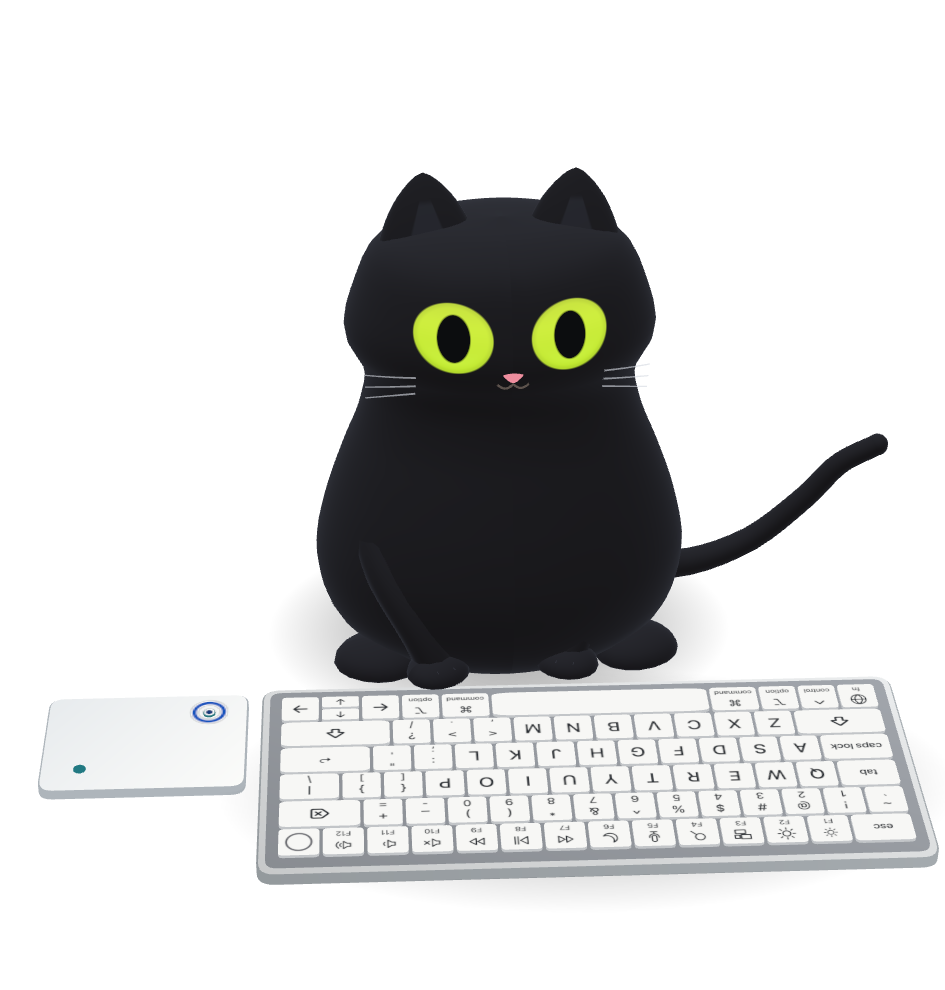
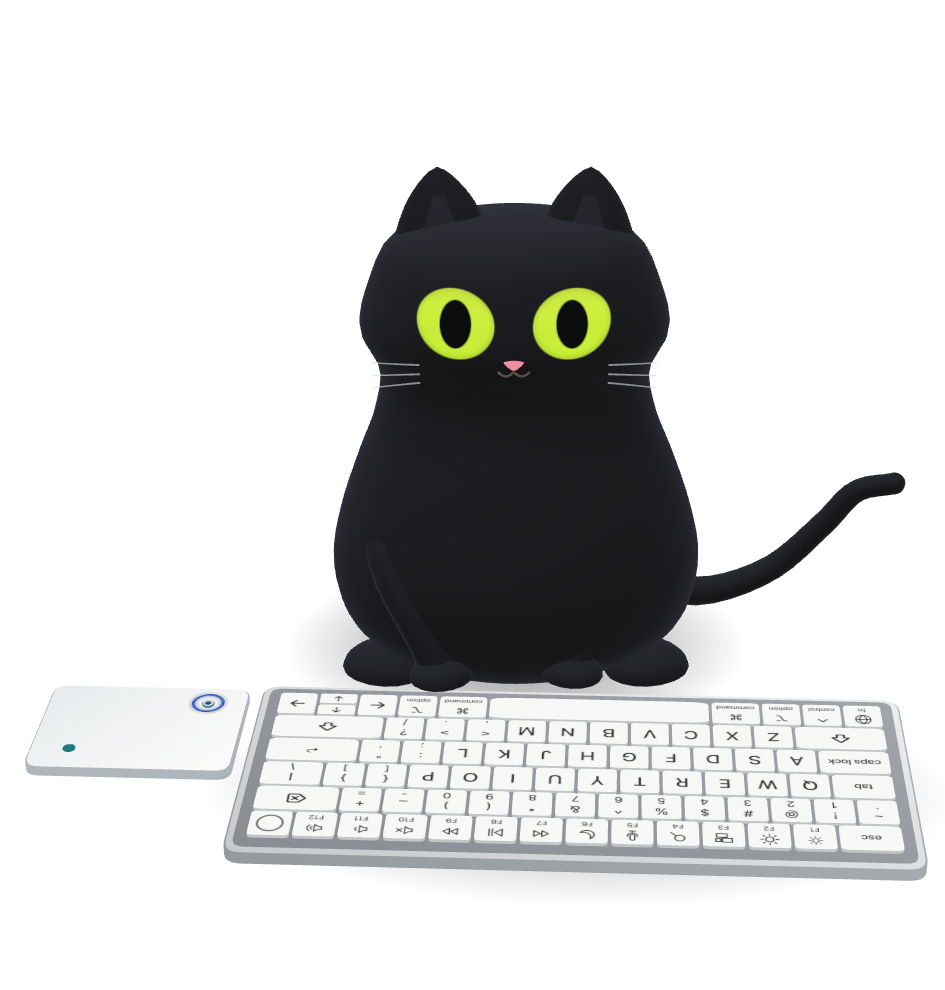
fix: preserve the mouse camera angle when switching to the trackpad

Changed region(s): [[0.0307, 0.2424, 1.0, 0.9091], [0.3989, 0.1515, 0.6751, 0.2424]]

diff --git a/src/catEngine3d.ts b/src/catEngine3d.ts
@@ -715,7 +715,6 @@ export class KuroCatEngine3D {
   private readonly sDeskHop = new Spring1D(0, 9.2, 0.34);
 
   // Turntable 360° orbit camera springs (0 = iconic KuroCat elevated front angle)
-  private customOrbit = false;
   private orbitAzimuthTarget = 0;
   private orbitElevTarget = 24.5;
   private readonly sOrbitAz = new Spring1D(0, 4.2, 0.86);
@@ -2019,16 +2018,14 @@ export class KuroCatEngine3D {
   }
 
   public addOrbitDelta(dAzDeg: number, dElDeg: number): void {
-    this.customOrbit = true;
     this.orbitAzimuthTarget = clamp(this.orbitAzimuthTarget + dAzDeg, -165, 165);
     this.orbitElevTarget = clamp(this.orbitElevTarget + dElDeg, 6, 58);
     this.wakeRendering();
   }
 
   public resetOrbit(): void {
-    this.customOrbit = false;
-    this.orbitAzimuthTarget = this.desk.pad.enabled ? -5 : 0;
-    this.orbitElevTarget = this.desk.pad.enabled ? 30 : 24.5;
+    this.orbitAzimuthTarget = 0;
+    this.orbitElevTarget = 24.5;
     this.wakeRendering();
   }
 
@@ -2215,9 +2212,7 @@ export class KuroCatEngine3D {
   }
 
   public setTrackpad(enabled: boolean): void {
-    const changed = this.desk.pad.enabled !== enabled;
     this.desk.setTrackpad(enabled);
-    if (changed && !this.customOrbit) this.resetOrbit();
     this.wakeRendering();
   }
 
@@ -2470,8 +2465,7 @@ export class KuroCatEngine3D {
     if (camKey !== this.lastCamKey) {
       this.lastCamKey = camKey;
       const baseDist = is108 ? 9.7 : 8.1;
-      this.camAnchor.x = padVisible ? -0.12 : 0.06;
-      const reqHalfW = (is108 ? 1.98 : 1.56) + (padVisible ? 0.20 : 0);
+      const reqHalfW = is108 ? 1.98 : 1.56;
       const tanHalfFov = Math.tan((this.camera.fov * Math.PI) / 360);
       const aspectFitDist = reqHalfW / (tanHalfFov * Math.max(0.55, this.camera.aspect));
       const dist = Math.max(baseDist, aspectFitDist) / Math.max(0.25, this.renderScale);
@@ -2481,6 +2475,15 @@ export class KuroCatEngine3D {
         this.camAnchor.z + Math.cos(az) * Math.cos(el) * dist,
       );
       this.camera.lookAt(this.camAnchor);
+      // Extend the image on the left for the pad without moving the viewpoint.
+      if (padVisible) {
+        const aspect = this.camera.aspect;
+        const margin = 0.20 / reqHalfW;
+        this.camera.setViewOffset(aspect, 1, -aspect * margin, -margin / 2,
+          aspect * (1 + margin), 1 + margin);
+      } else if (this.camera.view?.enabled) {
+        this.camera.clearViewOffset();
+      }
     }
 
     // 2) Emotional state machine
